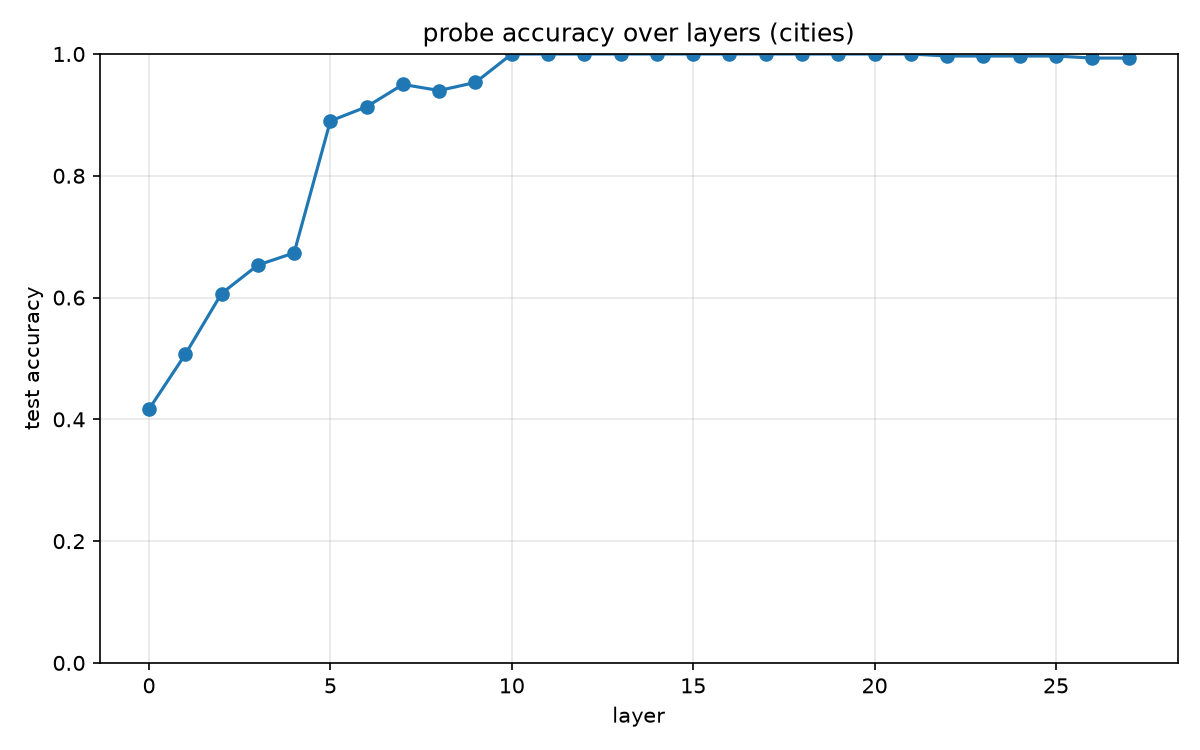
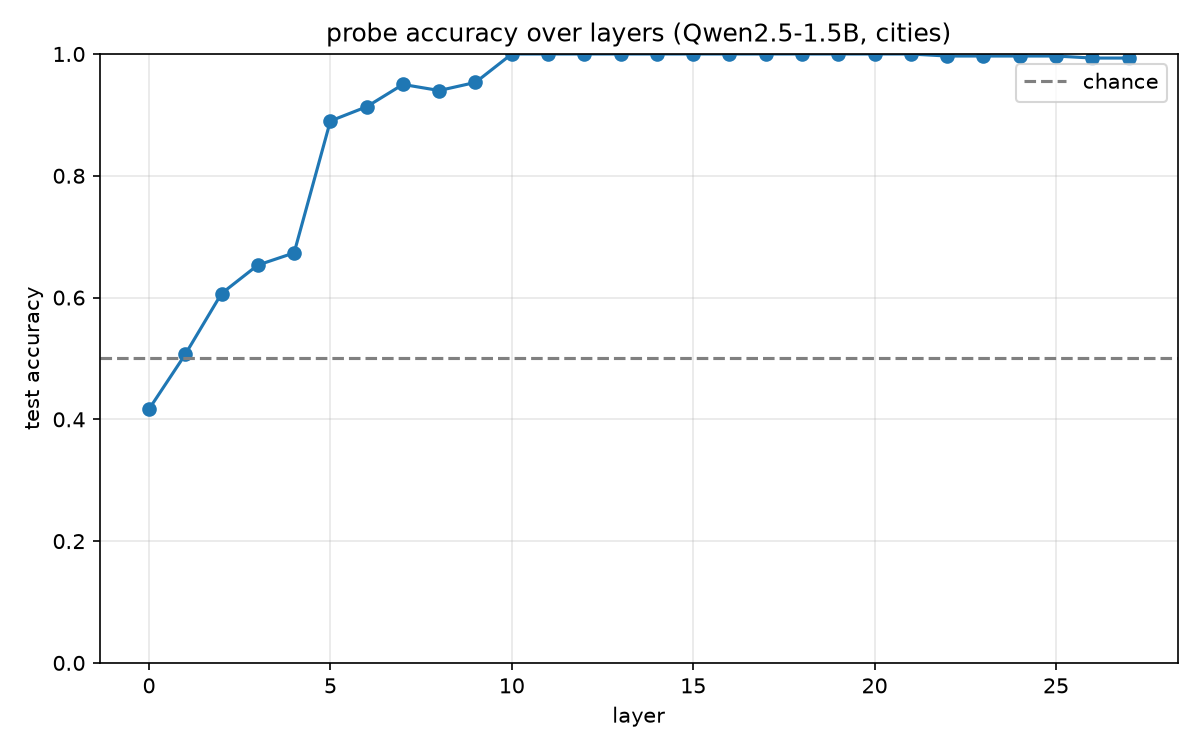
Run probes across all datasets, label plots with model, add chance line
Script now loops over cities, neg_cities, sp_en_trans by default; plot
titles include the model name (Qwen2.5-1.5B) and a dashed line marks
0.5 chance accuracy.

Changed region(s): [[0.2775, 0.0307, 0.8017, 0.0613], [0.8942, 0.092, 0.9867, 0.1227]]

diff --git a/scripts/probe_all_layers.py b/scripts/probe_all_layers.py
@@ -8,40 +8,47 @@ import numpy as np
 from src.data import load_activations
 from src.probes import normalized_coef, train_all_layers
 
+MODEL_NAME = "Qwen2.5-1.5B"
+ALL_DATASETS = ["cities", "neg_cities", "sp_en_trans"]
+
 parser = argparse.ArgumentParser()
-parser.add_argument("dataset", nargs="?", default="cities")
+parser.add_argument("datasets", nargs="*", default=ALL_DATASETS)
 args = parser.parse_args()
 
-acts, labels = load_activations(args.dataset)
+for dataset in args.datasets:
+    acts, labels = load_activations(dataset)
 
-results = train_all_layers(acts, labels)
-accuracies = [acc for _, acc in results]
-directions = np.stack([normalized_coef(probe) for probe, _ in results])  # [n_layers, d_model]
-layers = range(len(accuracies))
+    results = train_all_layers(acts, labels)
+    accuracies = [acc for _, acc in results]
+    directions = np.stack([normalized_coef(probe) for probe, _ in results])  # [n_layers, d_model]
+    layers = range(len(accuracies))
 
-for layer, acc in zip(layers, accuracies):
-    print(f"layer {layer}: {acc:.4f}")
+    print(f"--- {dataset} ---")
+    for layer, acc in zip(layers, accuracies):
+        print(f"layer {layer}: {acc:.4f}")
 
-results_dir = f"results/{args.dataset}"
-os.makedirs(results_dir, exist_ok=True)
+    results_dir = f"results/{dataset}"
+    os.makedirs(results_dir, exist_ok=True)
 
-with open(f"{results_dir}/accuracy.csv", "w", newline="") as f:
-    writer = csv.writer(f)
-    writer.writerow(["layer", "accuracy"])
-    writer.writerows(zip(layers, accuracies))
+    with open(f"{results_dir}/accuracy.csv", "w", newline="") as f:
+        writer = csv.writer(f)
+        writer.writerow(["layer", "accuracy"])
+        writer.writerows(zip(layers, accuracies))
 
-np.save(f"{results_dir}/directions.npy", directions)
-print(f"saved {results_dir}/accuracy.csv and {results_dir}/directions.npy")
+    np.save(f"{results_dir}/directions.npy", directions)
+    print(f"saved {results_dir}/accuracy.csv and {results_dir}/directions.npy")
 
-plt.figure(figsize=(8, 5))
-plt.plot(layers, accuracies, marker="o")
-plt.xlabel("layer")
-plt.ylabel("test accuracy")
-plt.title(f"probe accuracy over layers ({args.dataset})")
-plt.ylim(0, 1)
-plt.grid(alpha=0.3)
-plt.tight_layout()
+    plt.figure(figsize=(8, 5))
+    plt.plot(layers, accuracies, marker="o")
+    plt.axhline(0.5, linestyle="--", color="gray", label="chance")
+    plt.xlabel("layer")
+    plt.ylabel("test accuracy")
+    plt.title(f"probe accuracy over layers ({MODEL_NAME}, {dataset})")
+    plt.ylim(0, 1)
+    plt.grid(alpha=0.3)
+    plt.legend()
+    plt.tight_layout()
 
-out_path = f"figures/{args.dataset}_probe_accuracy.png"
-plt.savefig(out_path, dpi=150)
-print(f"saved {out_path}")
+    out_path = f"figures/{dataset}_probe_accuracy.png"
+    plt.savefig(out_path, dpi=150)
+    print(f"saved {out_path}")
